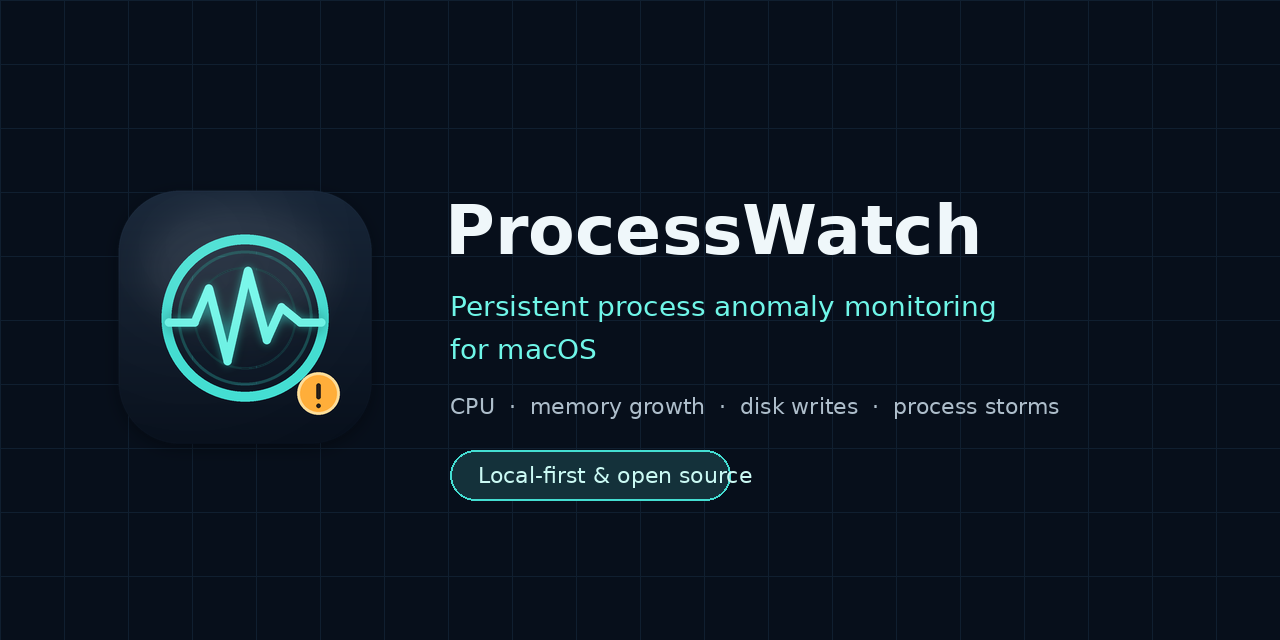
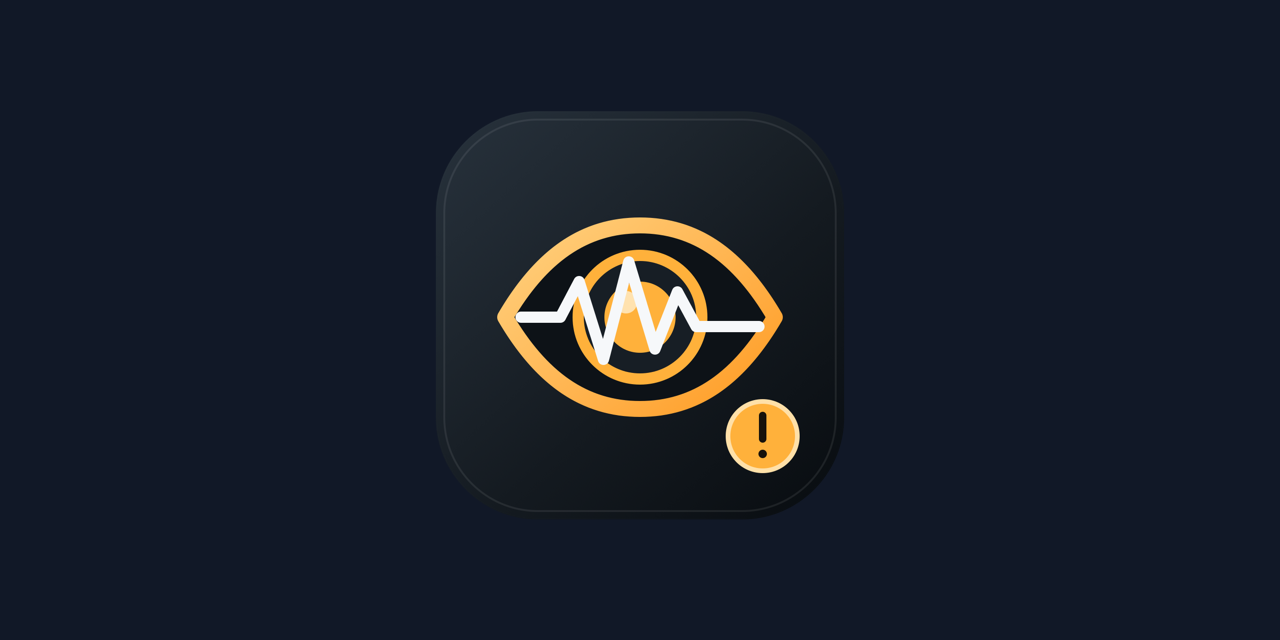
Prepare v1.5.2 public source release

diff --git a/docs/OPEN_SOURCE_RELEASE_AUDIT.md b/docs/OPEN_SOURCE_RELEASE_AUDIT.md
@@ -1,45 +1,46 @@
 # Open-Source and Release Audit
 
-Audit date: 2026-07-03
+Audit date: 2026-07-10
 
-## Ready in the repository
+## Source-release status
 
-- MIT license and neutral contributor copyright.
-- Bilingual README and beta-status disclosure.
-- App icon in SVG, PNG, and ICNS formats.
-- GitHub social preview image.
-- Contribution, conduct, support, privacy, security, and disclaimer documents.
-- Bug and feature issue forms plus pull-request template.
-- macOS CI build and native logic checks.
-- Version injection from a single `VERSION` file.
-- Native and universal build modes.
-- Developer ID signing with Hardened Runtime.
-- Apple notarization and stapling script.
-- Versioned DMG and SHA-256 checksums.
-- GitHub Actions workflow for a protected, signed release.
-- Privacy manifest and local-data documentation.
-- Removal of quarantine-bypass behavior from the installer.
-- Process termination protection for PID 1 and ProcessWatch itself.
+ProcessWatch is ready for a public source release as a macOS public beta.
 
-## External actions still required
+Repository readiness confirmed:
 
-These cannot be completed inside the source archive:
+- MIT license with neutral contributor ownership.
+- English and Simplified Chinese README files with beta-status disclosure.
+- Original app branding in editable SVG, 1024 PNG, ICNS, documentation-logo, and social-preview formats.
+- Contribution guide, code of conduct, support guide, privacy policy, security policy, issue forms, and pull-request template.
+- Privacy manifest declaring no tracking or collected data.
+- No third-party Swift package dependencies.
+- Native logic checks, source validation, product review checks, and macOS CI.
+- Single-source semantic versioning through `VERSION`.
+- Native and universal build paths.
+- Developer ID, Hardened Runtime, notarization, stapling, Gatekeeper verification, DMG packaging, and SHA-256 tooling.
+- Runtime-only `.ai/` and `.repo-harness/` directories excluded from Git.
+- Safety guards for PID 1 and the ProcessWatch process itself.
 
-1. Create the GitHub repository and select the final public owner/URL.
-2. Confirm the bundle identifier is appropriate for that owner.
-3. Enable GitHub private vulnerability reporting and branch protection.
-4. Join the Apple Developer Program if not already enrolled.
-5. Create a Developer ID Application certificate.
-6. Configure notarization credentials and protected CI secrets.
-7. Build on a real Mac using the selected Xcode version.
-8. Test on Apple silicon and Intel hardware.
-9. Measure the app's own idle CPU, wakeups, memory, and disk activity.
-10. Run first-launch and Gatekeeper tests on a clean Mac user account.
+## Public binary gate
+
+A source tag and GitHub source release may be published immediately. A downloadable DMG must not be presented as production-ready until all of the following are complete:
+
+1. Build a universal arm64 + x86_64 application.
+2. Sign the application and DMG with a valid Developer ID Application identity.
+3. Enable Hardened Runtime and secure timestamping.
+4. Notarize the application and DMG with Apple.
+5. Staple and validate notarization tickets.
+6. Pass Gatekeeper assessment on a clean macOS account.
+7. Validate behavior on Apple silicon and Intel hardware.
+8. Measure idle CPU, wakeups, memory, and disk activity over an extended run.
+9. Publish SHA-256 checksums with the binary artifacts.
+
+Ad-hoc signed local builds are development artifacts and must not be attached to a public release.
 
 ## Release recommendation
 
-Publish the repository immediately if desired, but publish binaries as `v1.3.0-beta.1` or another pre-release tag until the external validation above is complete. Do not label the binary as stable 1.0 yet.
+Publish `v1.5.2` as a GitHub pre-release with source archives only. Keep the project status as public beta. Add a notarized universal DMG to a later pre-release after the public binary gate is satisfied.
 
-## Logo assessment
+## Branding assessment
 
-A logo is appropriate because the app is distributed as a menu bar utility and needs a recognizable Finder, About panel, DMG, GitHub, and release identity. The included logo is original project artwork and is licensed with the repository.
+The refreshed icon uses a watchful eye as the primary silhouette, a process waveform as the diagnostic signal, and an amber badge for anomaly attention. The shape remains recognizable at Finder and menu-bar-adjacent sizes and is original project artwork distributed under the MIT License.

diff --git a/CHANGELOG.md b/CHANGELOG.md
@@ -1,5 +1,13 @@
 # Changelog
 
+## 1.5.2 - 2026-07-10
+
+- Replaced the app icon with a clearer watchful-eye and process-waveform identity.
+- Synchronized PNG, ICNS, documentation logo, and social-preview brand assets.
+- Added repo-harness runtime directories to `.gitignore` so public clones remain clean.
+- Refreshed the open-source release audit and prepared the first source-only public beta release.
+- Kept unsigned or ad-hoc-signed binaries out of the public release until Developer ID signing, notarization, and cross-architecture validation are complete.
+
 ## 1.5.1
 
 - Fixed dashboard overlap and missing spacing between the process table and right-side operation panel.

diff --git a/README.md b/README.md
@@ -12,7 +12,7 @@
   <img alt="Platform" src="https://img.shields.io/badge/macOS-13%2B-111827">
   <img alt="Swift" src="https://img.shields.io/badge/Swift-5.9%2B-F05138">
   <img alt="License" src="https://img.shields.io/badge/license-MIT-44DED2">
-  <img alt="Status" src="https://img.shields.io/badge/status-beta-FFAE3A">
+  <img alt="Status" src="https://img.shields.io/badge/status-public%20beta-FFAE3A">
 </p>
 
 [简体中文](README.zh-CN.md)
@@ -25,7 +25,7 @@ ProcessWatch watches CPU usage, memory growth, disk writes, process storms, orph
 
 > The image above is a design concept. The implementation follows the same information architecture using native SwiftUI/AppKit components.
 
-> **Project status:** public beta. The app is useful for local diagnostics, but its native process sampling and release pipeline should be validated on multiple macOS and hardware versions before declaring a stable 1.0 release.
+> **Project status:** public beta. Source releases are available now. Public binary downloads remain gated on Developer ID signing, Apple notarization, and validation on both Apple silicon and Intel Macs before a stable 1.0 release.
 
 ## Highlights
 

diff --git a/Assets/README.md b/Assets/README.md
@@ -4,6 +4,6 @@
 - `AppIcon.png` — 1024 × 1024 master raster.
 - `AppIcon.icns` — macOS app icon copied into the built bundle.
 
-The icon combines a monitoring waveform and concentric observation rings with an amber anomaly marker. Brand assets are licensed under the project's MIT License.
+The icon combines a watchful eye, a live process waveform, and an amber anomaly marker. Brand assets are licensed under the project's MIT License.
 
 When changing the icon, keep the SVG, PNG, ICNS, documentation logo, and social preview synchronized. Verify appearance at 16, 32, 64, 128, 256, 512, and 1024 pixels in both light and dark macOS contexts.

diff --git a/README.zh-CN.md b/README.zh-CN.md
@@ -16,7 +16,7 @@ ProcessWatch 用于发现持续高 CPU、内存持续增长、持续写盘、进
 
 > 上图是设计概念图。实际实现使用原生 SwiftUI/AppKit，并沿用相同的信息架构与操作逻辑。
 
-> **当前状态：公开 Beta。** 功能已经具备实际诊断价值，但原生采样层和发布产物仍应在多种 macOS 版本、Intel Mac 与 Apple 芯片设备上验证后，再发布稳定版 1.0。
+> **当前状态：公开 Beta。** 目前已开放源码发布。公开二进制下载仍需完成 Developer ID 签名、Apple 公证，并在 Apple 芯片和 Intel Mac 上验证后，才会进入稳定版 1.0。
 
 ## 主要功能
 